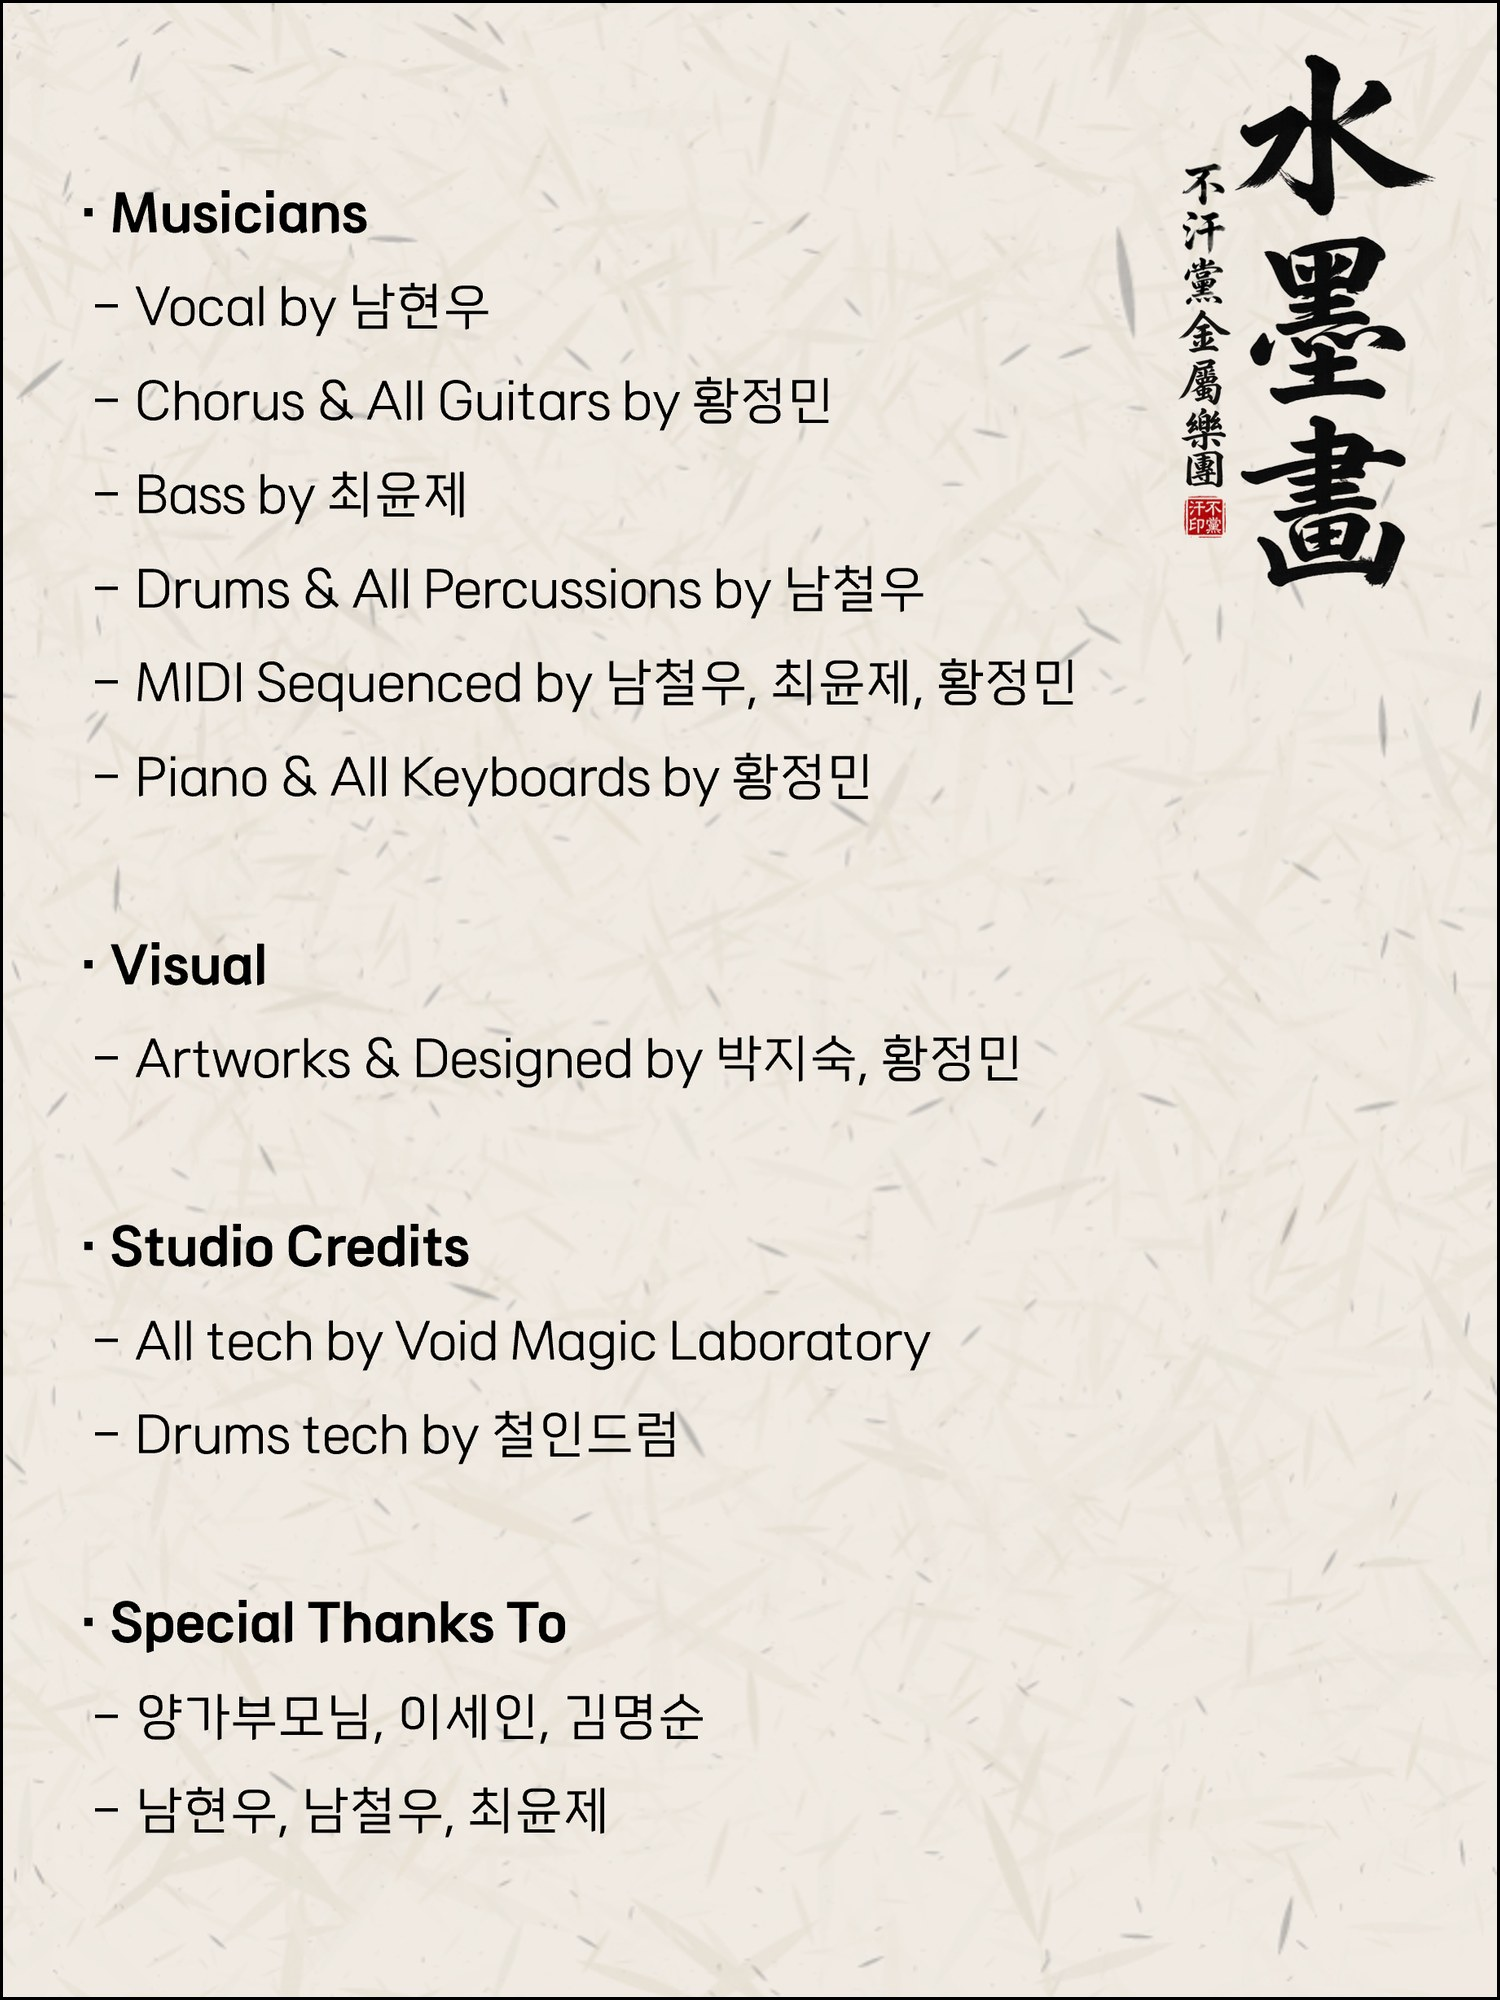
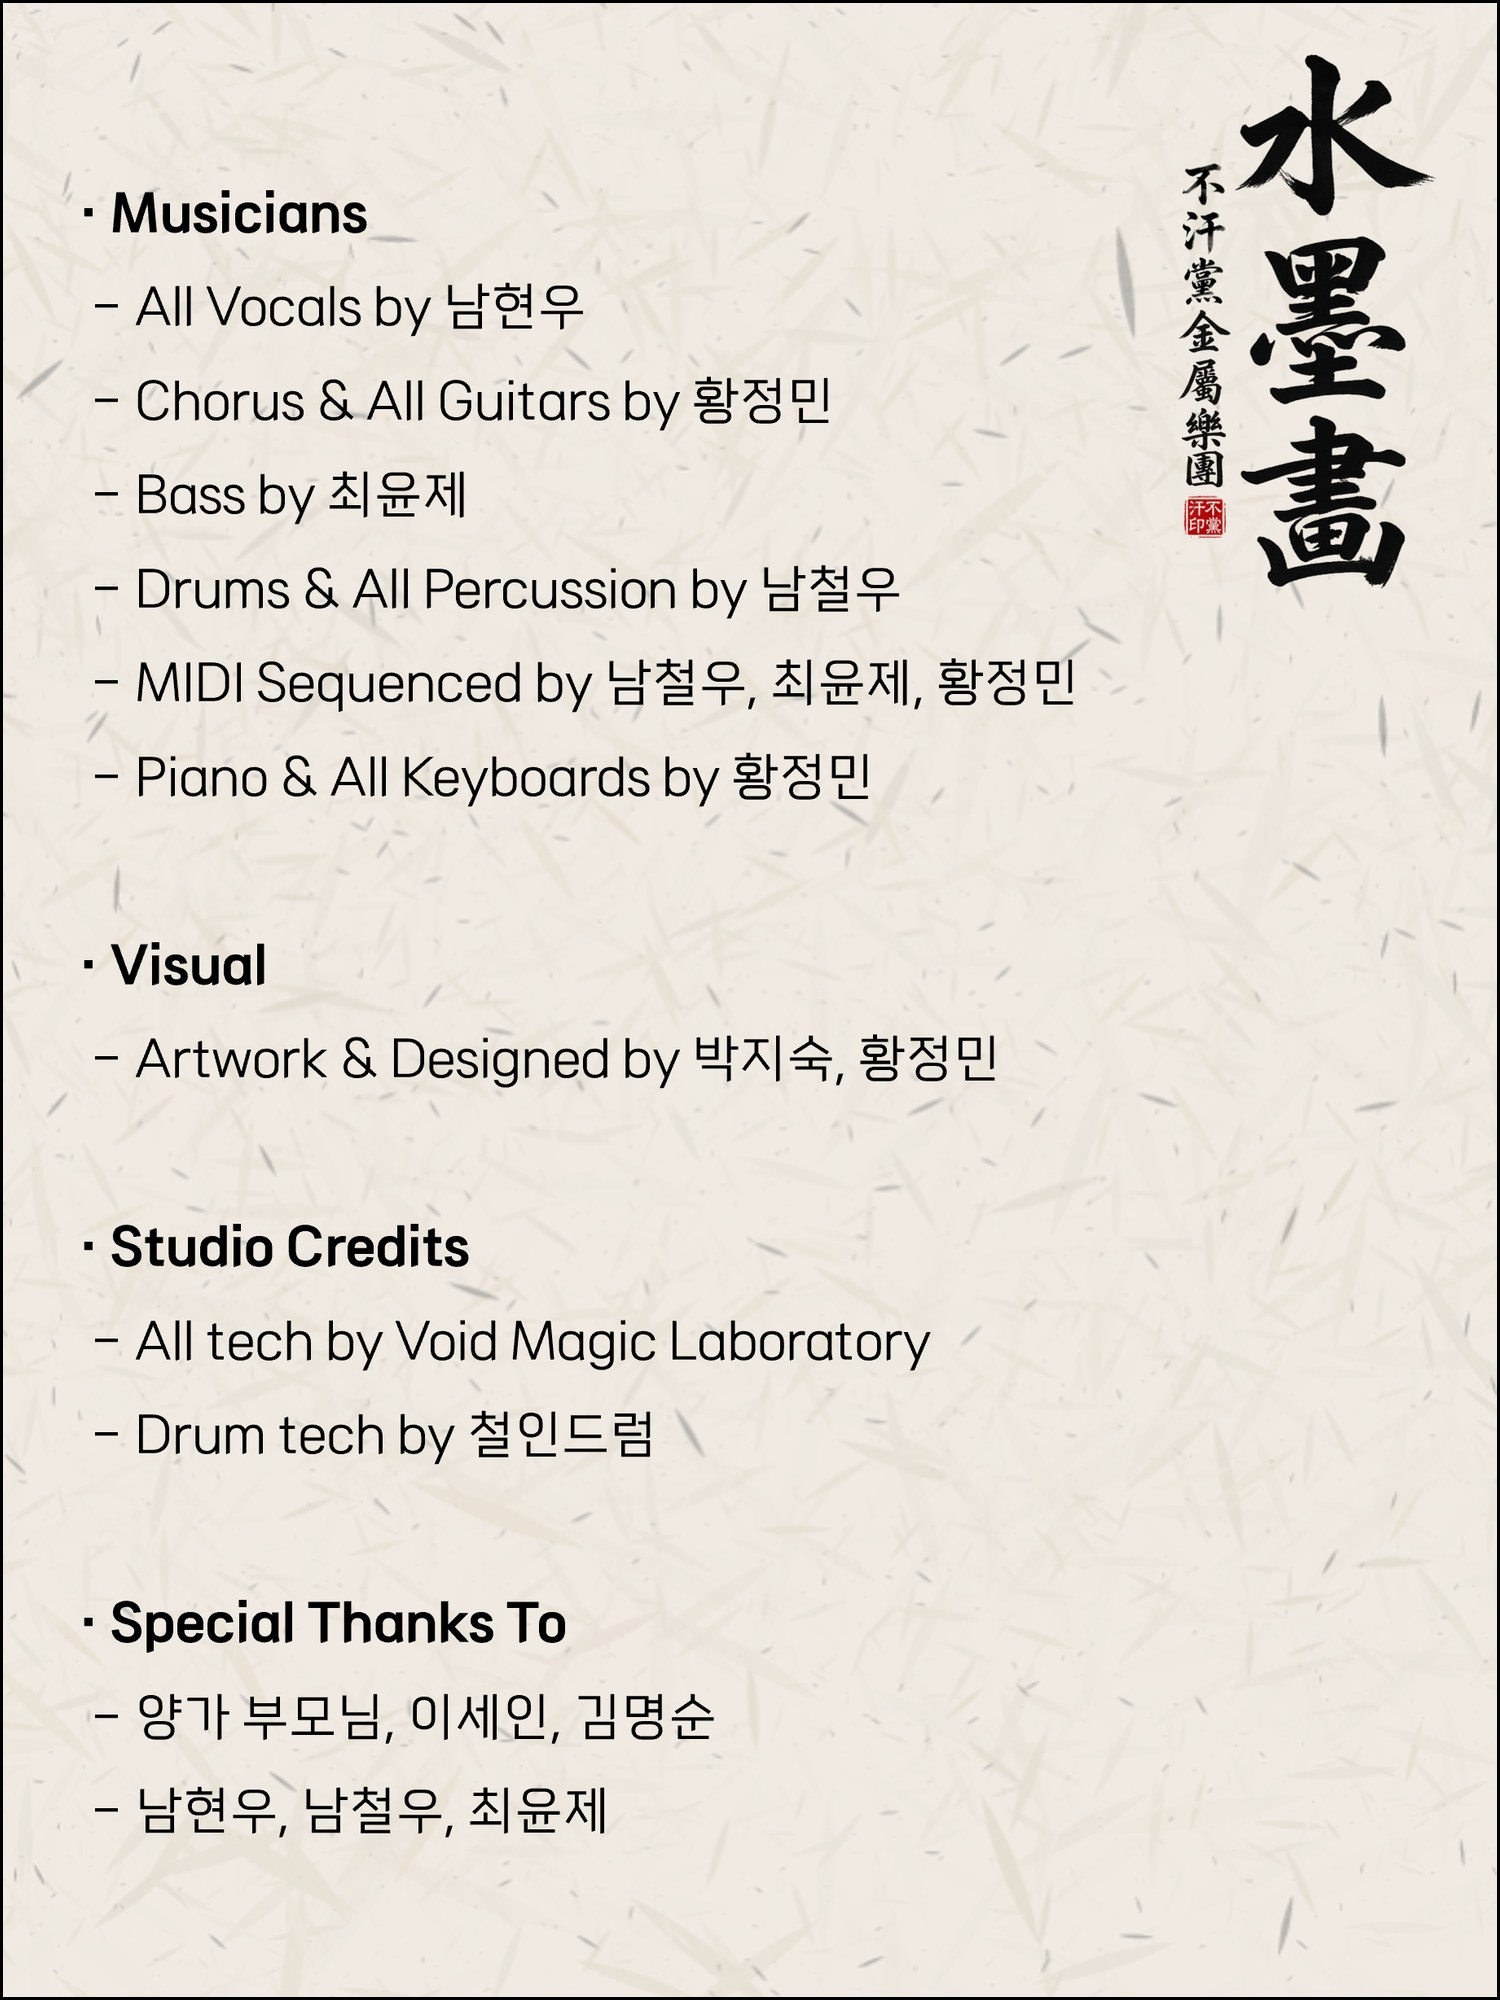
Add files via upload

diff --git a/index.html b/index.html
@@ -325,7 +325,7 @@
 /* ===== 버전 =====
    그림·음원·배경·폰트 등 파일을 바꿔 올릴 때마다 이 숫자와 version.json의 숫자를 똑같이 1씩 올림.
    그러면 모든 기기가 저장된 옛 파일 대신 새 파일을 받음. */
-const VERSION = 7;
+const VERSION = 8;
 const V = path => path + '?v=' + VERSION;
 
 /* 열린 페이지가 옛 버전이면 최신 페이지로 다시 열기 (QR 주소 그대로 들어와도 동작) */
@@ -571,38 +571,38 @@ const LYRICS = `
 (00:31:00 ~ 00:37:50) 여전히 내 눈에는 서툴고 어리기만 한데
 (00:38:00 ~ 00:45:00) 어느새 넓어진 어깨가 낯설어 미소만 흘린다
 
-(00:45:50 ~ 00:51:50) 해준 것 없는 날들에 넌 늘 웃어주었고
+(00:45:50 ~ 00:51:50) 해 준 것 없는 날들에 넌 늘 웃어 주었고
 (00:52:00 ~ 00:58:50) 과분하게 건네준 평생의 기억들만 남아
 (00:59:00 ~ 01:06:00) 미안함이 앞서서 건네지 못한 말은 등 뒤로
-(01:06:50 ~ 01:12:00) 잘 자라주어 고맙구나
+(01:06:50 ~ 01:12:00) 잘 자라 주어 고맙구나
 
 (01:13:00 ~ 01:19:00) 조용하고 잔잔하던 오랜 우리의 풍경
-(01:19:50 ~ 01:26:50) 빛 바랜 수묵화 같던 적막한 그림 위로
+(01:19:50 ~ 01:26:50) 빛바랜 수묵화 같던 적막한 그림 위로
 (01:27:00 ~ 01:34:00) 우연처럼 그려진 예쁜 가지 하나에
 (01:34:50 ~ 01:41:00) 그때의 해맑던 미소를 다시 보게 되었구나
 
 (01:41:50 ~ 01:49:00) 그대 작은 손길 하나에 번지는 알록달록 오색 빛
 (01:49:50 ~ 01:55:00) 어두운 여백을 채우는 우아한 그대 춤사위
 (01:55:50 ~ 02:02:00) 고맙소, 서툰 우리에게 찾아와 준 그대여
-(02:02:50 ~ 02:10:00) 올바른 향기로 물들여갈 두 사람의 시작
+(02:02:50 ~ 02:10:00) 올바른 향기로 물들여 갈 두 사람의 시작
 
 (02:13:50 ~ 02:20:50) 이제는 한 걸음 뒤에서 너를 바라본다
 (02:21:00 ~ 02:27:00) 눈부시게 자라난 너의 뒷모습
 (02:27:50 ~ 02:34:00) 조금은 더 어른이 된 나무가 되어 줄게
-(02:34:50 ~ 02:41:50) 언제든 쉴 수 있는 그늘을 넓혀둘 테니
+(02:34:50 ~ 02:41:50) 언제든 쉴 수 있는 그늘을 넓혀 둘 테니
 
 (02:42:00 ~ 02:49:00) 그대 작은 손길 하나에 번지는 알록달록 오색 빛
 (02:49:50 ~ 02:55:50) 어두운 여백을 채우는 우아한 그대 춤사위
 (02:56:00 ~ 03:02:00) 고맙소, 서툰 우리에게 찾아와 준 그대여
-(03:02:50 ~ 03:09:50) 어여쁜 가지들로 채워갈 두 사람의 시작
+(03:02:50 ~ 03:09:50) 어여쁜 가지들로 채워 갈 두 사람의 시작
 
-(03:10:00 ~ 03:16:00) 디딜 발자욱 마다 예쁜 색으로 가득하길
+(03:10:00 ~ 03:16:00) 디딜 발자욱마다 예쁜 색으로 가득하길
 (03:16:50 ~ 03:23:00) 바람에 스러지지 않는 향기로 채워 가길
-(03:23:50 ~ 03:30:50) 언제나 두사람을 기도 하겠소
-(03:31:00 ~ 03:41:00) 언제나 그대들과 함께 하겠소
+(03:23:50 ~ 03:30:50) 언제나 두 사람을 기도하겠소
+(03:31:00 ~ 03:41:00) 언제나 그대들과 함께하겠소
 
 (04:10:00 ~ 04:16:50) 가끔 거친 바람 불어와 그대를 흔들 때도 있지만
-(04:17:00 ~ 04:23:50) 마주 잡은 두 손에 붓으로 채워갈 한 폭의 채색화
+(04:17:00 ~ 04:23:50) 마주 잡은 두 손에 붓으로 채워 갈 한 폭의 채색화
 (04:24:00 ~ 04:30:50) 언제나, 오늘 그대들을 꼭 기억하길 바라오
 (04:31:00 ~ 04:42:00) 새로운 가지를 향기로 그릴 두 사람의 시작
 `;
